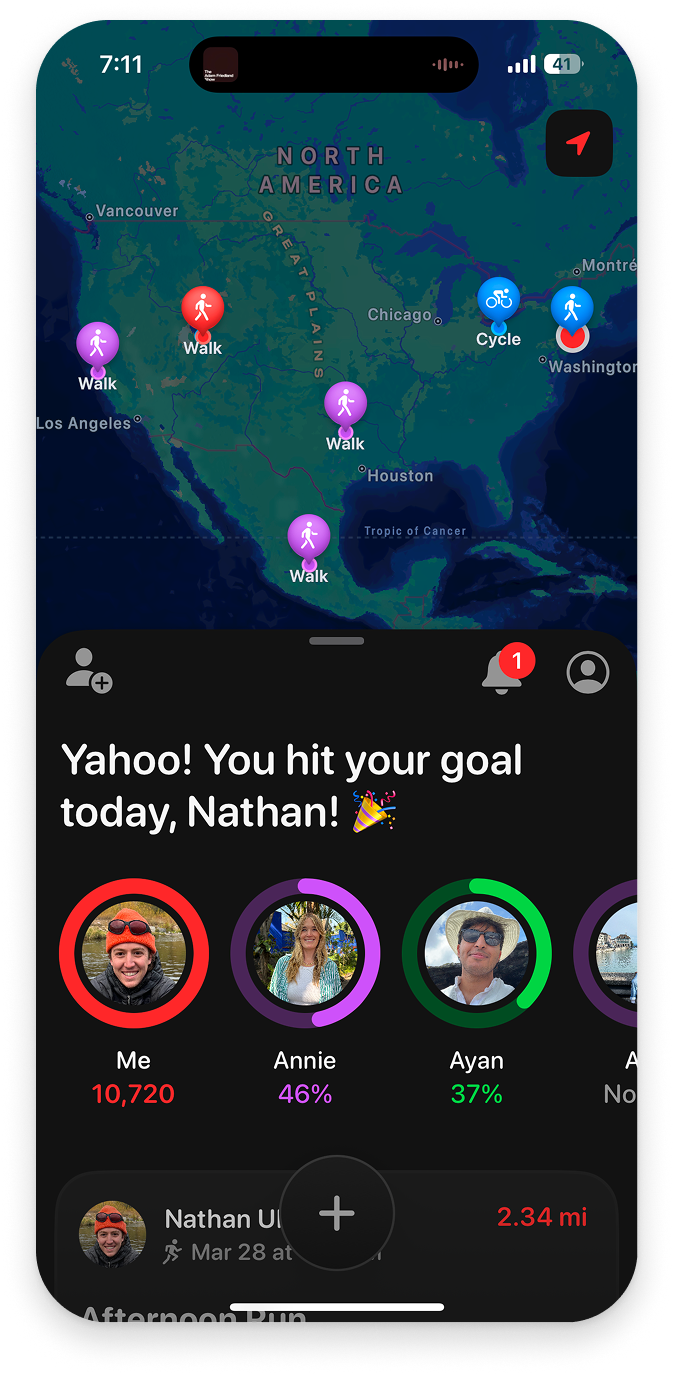
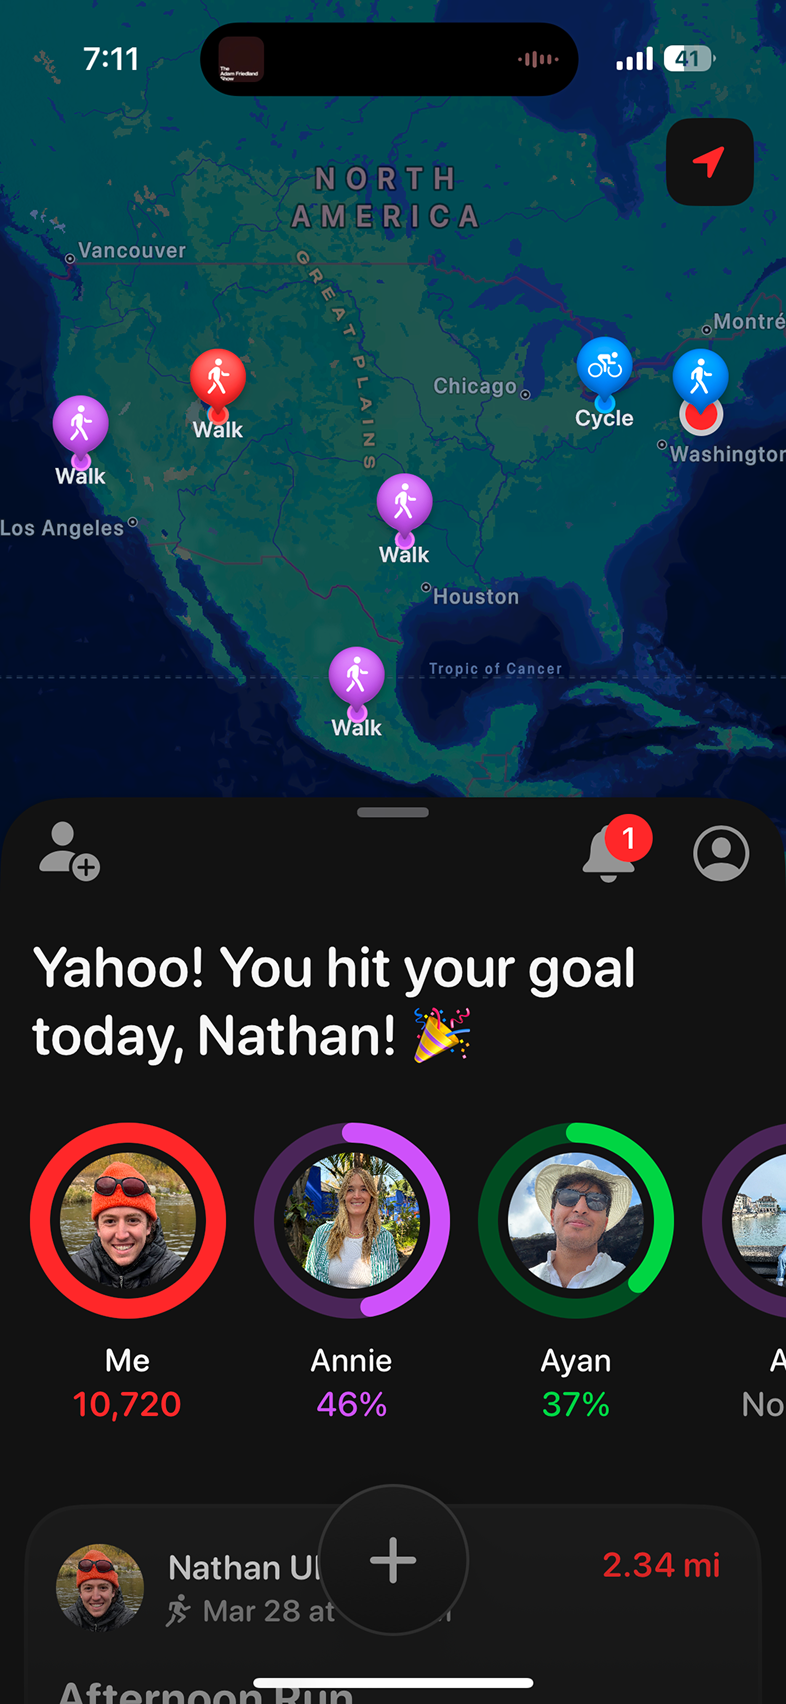
Cleaned up implementation of images

diff --git a/src/app/components/ProjectCard.tsx b/src/app/components/ProjectCard.tsx
@@ -14,16 +14,21 @@ export default function ProjectCard({ title, images, description, link }: Projec
   return (
     <div className="card-border bg-transparent md:rounded-lg md:px-8 pt-6 pb-4 md:pt-[80px] md:pb-[48px] mx-0 md:mx-12 lg:mx-16 mb-6">
       {/* iPhone mockups — edge-to-edge on mobile */}
-      <div className="flex justify-center items-end gap-4 md:gap-6 mb-2 md:mb-8">
+      <div className="flex justify-center items-end gap-4 md:gap-6 mb-2 md:mb-8 px-6 md:px-0">
         {images.map((src, index) => (
-          <img
+          <div
             key={index}
-            src={src}
-            alt={`${title} screenshot ${index + 1}`}
-            className={`h-auto block ${
+            className={`[filter:drop-shadow(0_8px_30px_rgba(0,0,0,0.12))] ${
               index === 0 ? "w-full md:w-[300px]" : "hidden md:block md:w-[300px]"
             }`}
-          />
+          >
+            <img
+              src={src}
+              alt={`${title} screenshot ${index + 1}`}
+              className="h-auto w-full block"
+              style={{ clipPath: "url(#squircle)" }}
+            />
+          </div>
         ))}
       </div>
 

diff --git a/src/app/page.tsx b/src/app/page.tsx
@@ -4,6 +4,15 @@ import ProjectCard from "./components/ProjectCard";
 
 const projects = [
   {
+    title: "Solitaire",
+    images: [
+      "/images/solitaire-1.png",
+      "/images/solitaire-2.png",
+      "/images/solitaire-3.png",
+    ],
+    description: "Built a classic Solitaire game for iOS.",
+  },
+  {
     title: "Joon",
     images: [
       "/images/joon-1.png",
@@ -48,6 +57,14 @@ const projects = [
 export default function Home() {
   return (
     <main className="min-h-screen">
+      {/* SVG defs for iOS-style continuous corner clip path */}
+      <svg width="0" height="0" className="absolute" aria-hidden="true">
+        <defs>
+          <clipPath id="squircle" clipPathUnits="objectBoundingBox">
+            <path d="M 0.14,0 L 0.86,0 C 0.954,0 1,0.023 1,0.065 L 1,0.935 C 1,0.977 0.954,1 0.86,1 L 0.14,1 C 0.046,1 0,0.977 0,0.935 L 0,0.065 C 0,0.023 0.046,0 0.14,0 Z" />
+          </clipPath>
+        </defs>
+      </svg>
       <div className="max-w-[1200px] mx-auto">
         <Header />
         <HeroCard />
